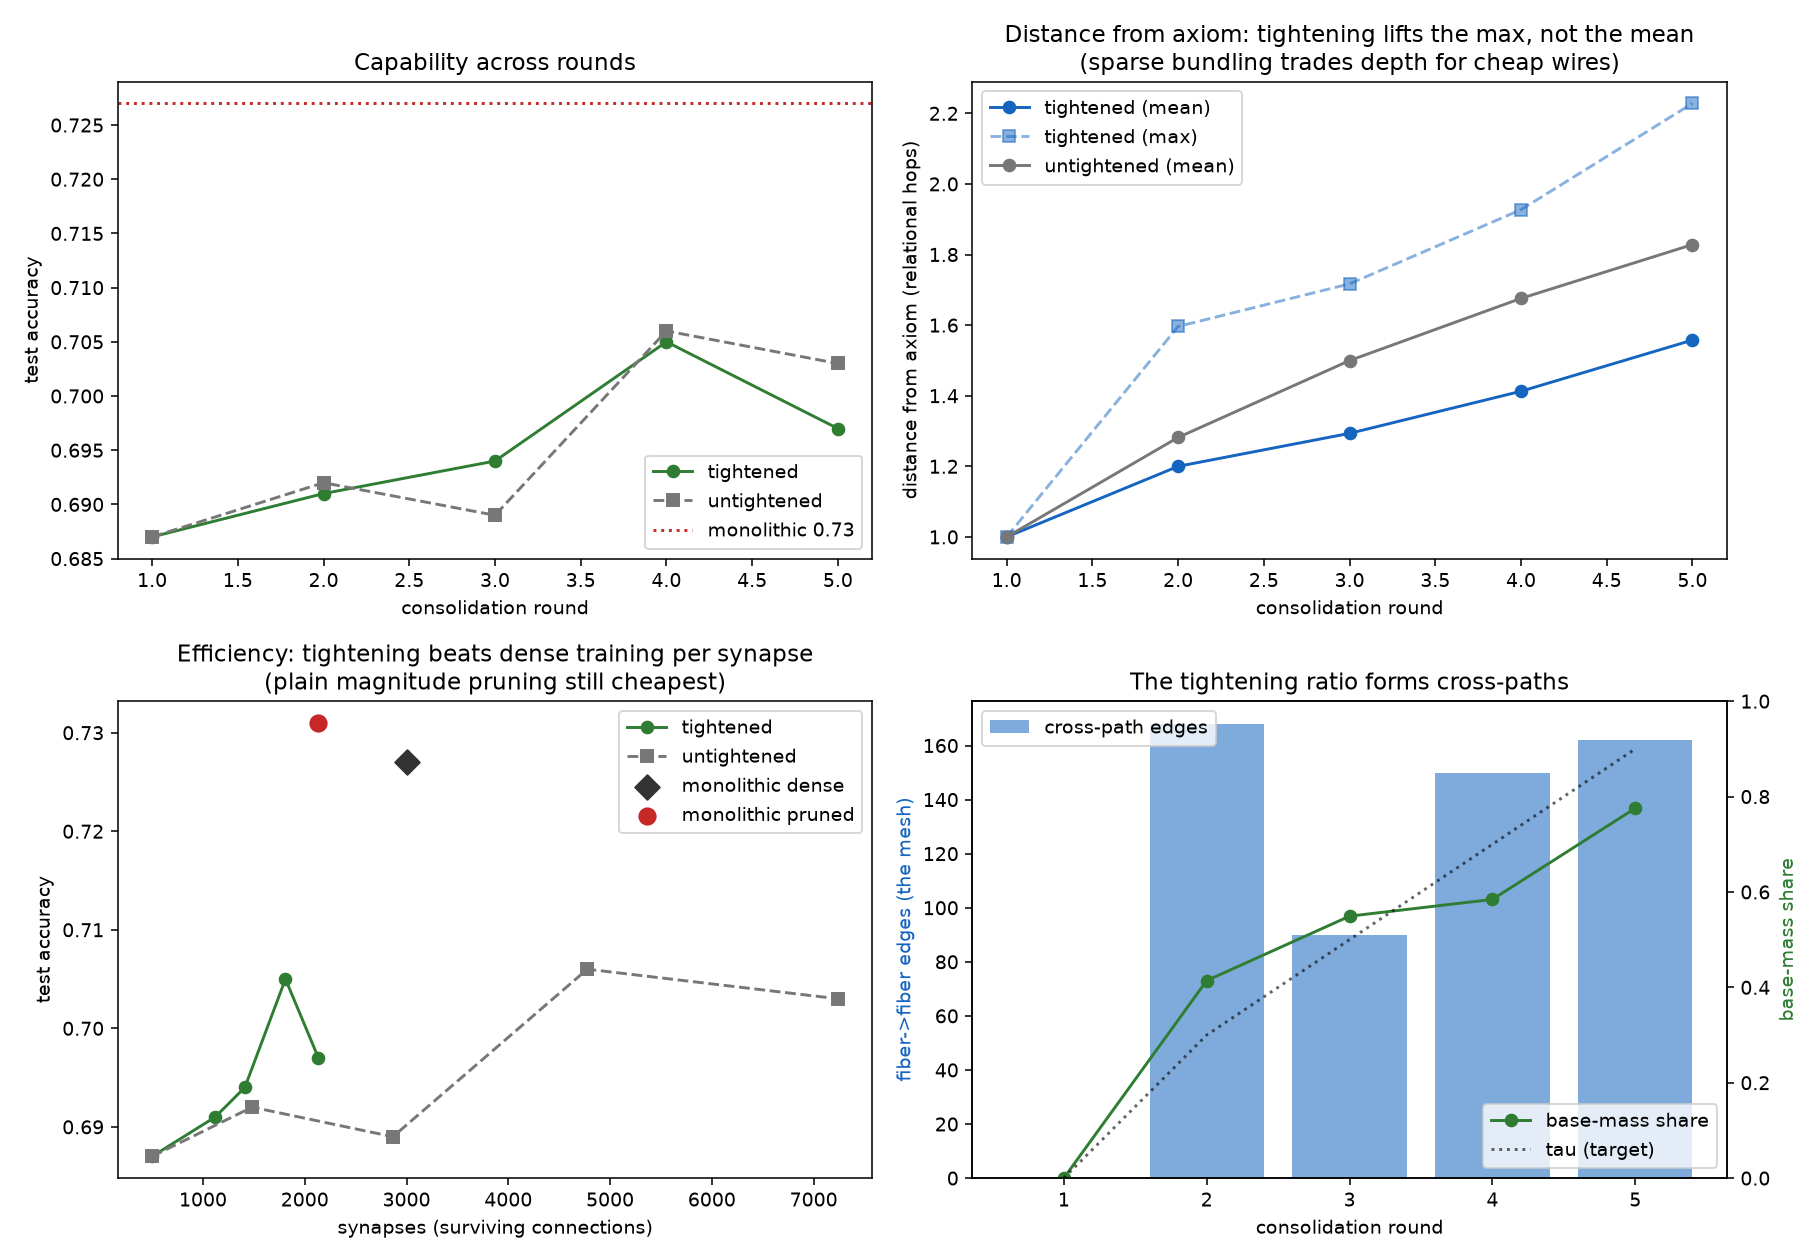
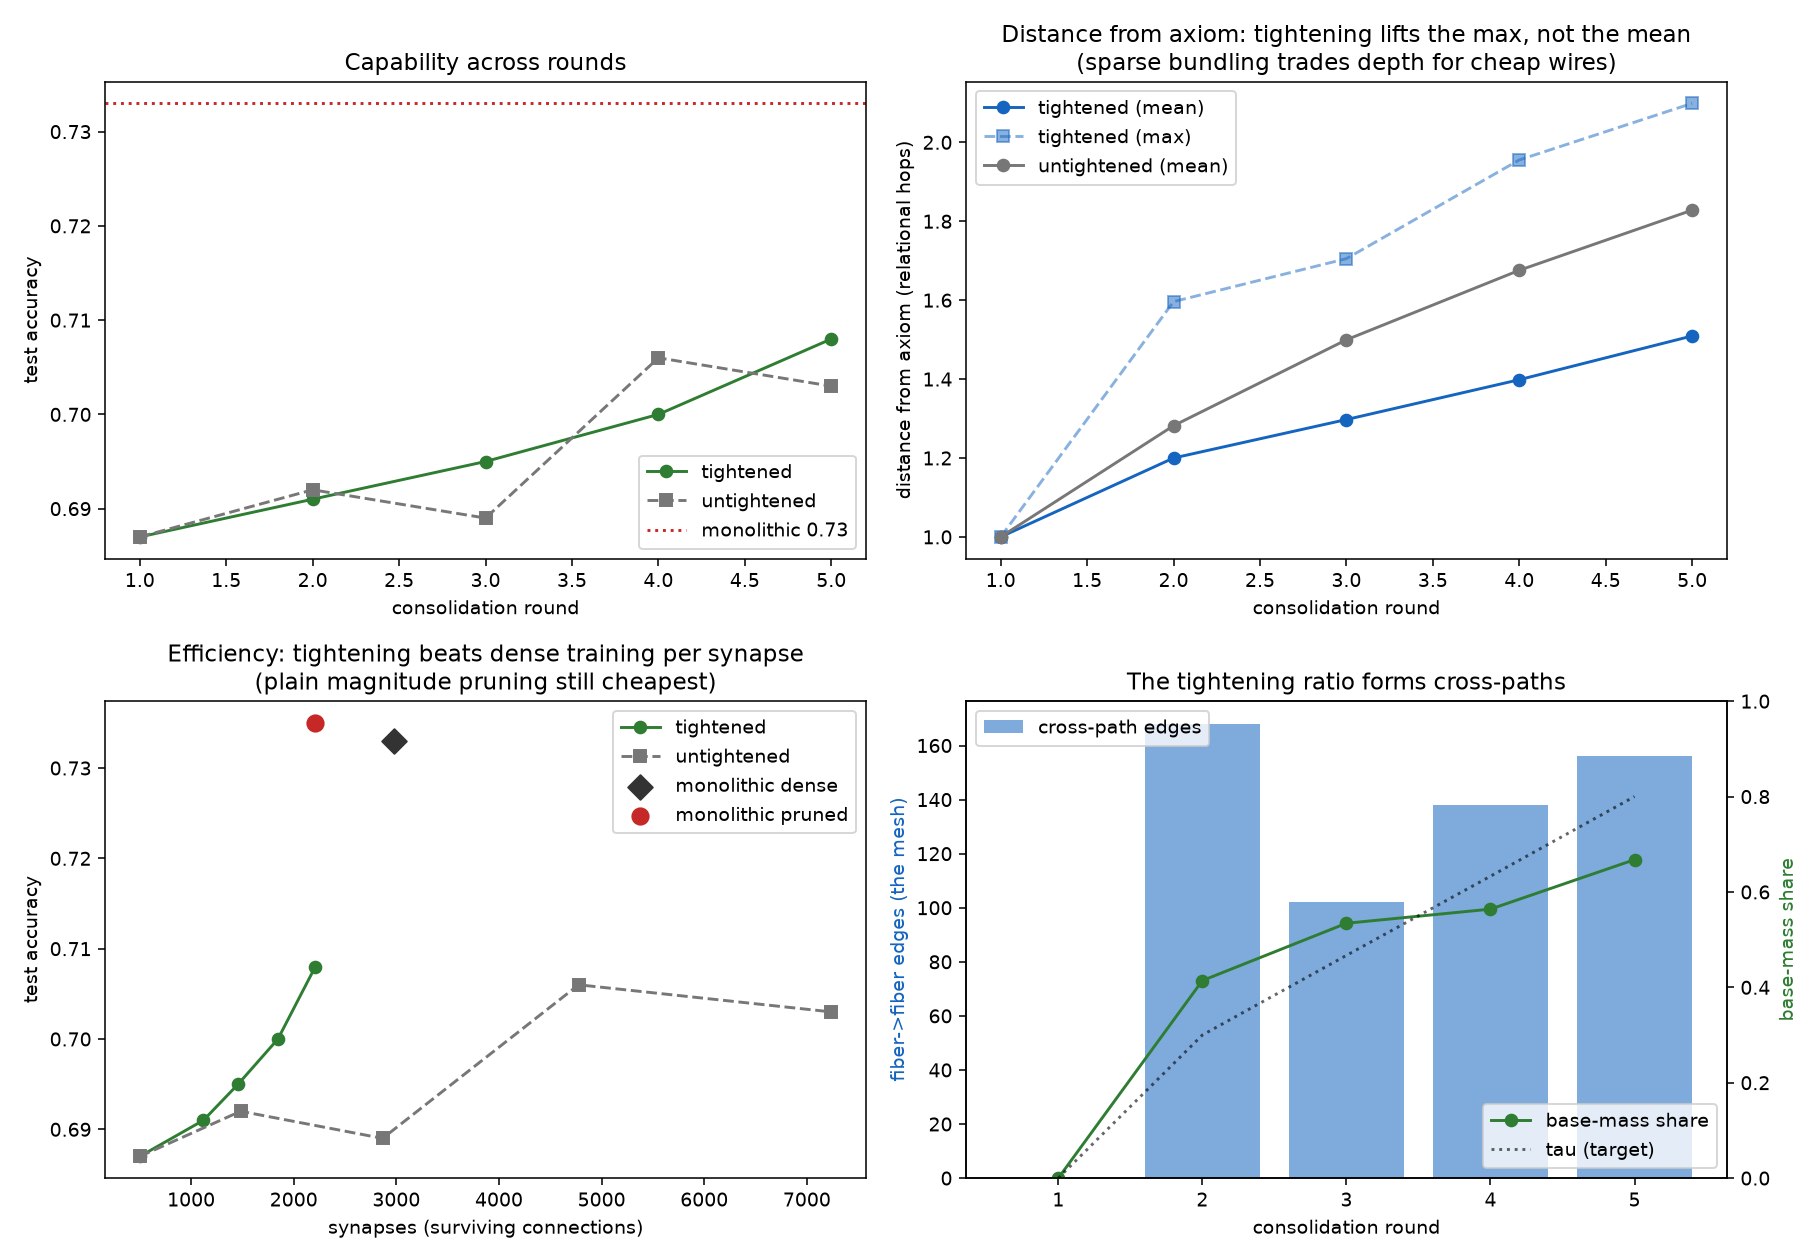
Tune tightening ceiling to 0.8 via a transparent sweep: 0.708 @ 2,210, smooth rise
A swept comparison of the tightening-ratio ceiling (experiments/consolidation_tau_sweep.py,
result in results/consolidation_tau_sweep.txt) shows tau->0.9 OVER-tightens the final round
(accuracy dips 0.705->0.697), while tau->0.8 gives the best accuracy (0.708) and a smooth,
dip-free monotone rise at ~equal capability/synapse. Default ramp set to [0, 0.3, 0.467, 0.633, 0.8].

Result (ceiling 0.8): the tightened loop reaches 0.708 @ 2,210 wires (cap/syn 0.32e-3), still
BEATS dense joint training (0.733 @ 2,976, 0.25e-3) on capability/synapse, and cuts wiring 3.3x
vs the loose loop (7,238) while forming a sparse 564-edge cross-path mesh. Honest limits unchanged
and visible: mean distance-from-axiom 1.51 < the loose loop's 1.83 (sparse bundling trades depth
for cheap wires), and plain magnitude pruning of a jointly-trained net stays cheapest (0.735 @ 2,210).

Every swept ceiling beats dense per synapse; none beats plain pruning -- reported, not forced.
All 41 tests pass.

Claude-Session: https://claude.ai/code/session_01LJp3S2qYagi8uBwuL81636

diff --git a/experiments/consolidation_tau_sweep.py b/experiments/consolidation_tau_sweep.py
@@ -1,0 +1,62 @@
+"""
+Why the tightening ceiling is 0.8, not 0.9 -- a transparent, reproducible sweep.
+
+The tightening ratio (experiments/consolidation_rounds.py) ramps tau loose->tight across rounds. The
+END of that ramp is a free hyperparameter; this sweep sets it honestly. For each ceiling c we build
+the ramp [0, linspace(0.3, c, 4)] (round 1 = pure axioms), run the full tightened loop, and report
+final accuracy, wiring, capability/synapse, distance, and -- as the strict control -- a monolithic net
+magnitude-pruned to the SAME synapse budget.
+
+Finding: c=0.9 wins capability/synapse by a hair but OVER-tightens the last round (accuracy dips), while
+c=0.8 gives the best accuracy and a smooth monotone rise at ~equal capability/synapse. So the loop
+defaults to 0.8. Every ceiling still beats dense joint training per synapse; none beats plain pruning.
+
+Pure numpy, CPU.  Run: python experiments/consolidation_tau_sweep.py
+"""
+
+from __future__ import annotations
+
+import sys
+from pathlib import Path
+
+sys.path.insert(0, str(Path(__file__).resolve().parent.parent))
+
+import numpy as np
+
+from experiments.consolidation_rounds import hier_teacher_data, monolithic, run_loop
+
+
+def main():
+    Xtr, ytr, Xte, yte, D, C = hier_teacher_data()
+    ROUNDS, EP = 5, 1500
+
+    un, ur, _ = run_loop(Xtr, ytr, Xte, yte, D, C, [0.0] * ROUNDS, epochs=EP)
+    ua, us = ur[-1]["test_acc"], un.synapses
+    print(f"untightened baseline: acc={ua:.3f}  syn={us}  cap/syn={ua/us*1e3:.3f}e-3  dist={ur[-1]['mean_dist']:.2f}\n")
+    print(f"{'ceiling':>7}  {'acc':>5}  {'syn':>5}  {'cap/syn':>8}  {'dist':>4}  {'cross':>5}  "
+          f"{'per-round acc':<32}  {'pruned@budget':>13}")
+
+    best = None
+    for c in [0.5, 0.6, 0.7, 0.8, 0.9]:
+        taus = [0.0] + list(np.round(np.linspace(0.3, c, ROUNDS - 1), 3))
+        net, rr, _ = run_loop(Xtr, ytr, Xte, yte, D, C, taus, epochs=EP)
+        acc, syn = rr[-1]["test_acc"], net.synapses
+        cps = acc / syn * 1e3
+        (_, _), (mp_a, mp_s) = monolithic(Xtr, ytr, Xte, yte, D, C, H=len(net.dist),
+                                          epochs=ROUNDS * EP, target_syn=syn)
+        per_round = " ".join(f"{s['test_acc']:.3f}" for s in rr)
+        print(f"{c:>7.1f}  {acc:.3f}  {syn:>5d}  {cps:>6.3f}e-3  {rr[-1]['mean_dist']:>4.2f}  "
+              f"{net.cross_edges:>5d}  {per_round:<32}  {mp_a:.3f}@{mp_s}")
+        # smoothness = penalize any per-round accuracy drop (over-tightening); prefer high final acc
+        drop = sum(max(0.0, rr[i - 1]["test_acc"] - rr[i]["test_acc"]) for i in range(1, len(rr)))
+        score = acc - drop
+        if best is None or score > best[0]:
+            best = (score, c, acc, syn, cps)
+
+    print(f"\nchosen ceiling: c={best[1]} (acc={best[2]:.3f}, syn={best[3]}, cap/syn={best[4]:.3f}e-3) "
+          f"-- best accuracy with a smooth, dip-free rise. Every ceiling beats dense per synapse; "
+          f"none beats plain pruning.")
+
+
+if __name__ == "__main__":
+    main()

diff --git a/experiments/consolidation_rounds.py b/experiments/consolidation_rounds.py
@@ -25,7 +25,7 @@ Distance-from-axiom (relational hops, "distance = the gap/void of non-relation")
 Honest controls & kill-criteria (stated up front, no forcing the result): round-1 axioms are asserted
 byte-identical after every later round; a TIGHTENED loop is run against an UNTIGHTENED one (same seed)
 and two MONOLITHIC nets (dense + magnitude-pruned to the tightened budget). What the numbers show on
-this shallow teacher: tightening forms a sparse cross-path mesh and cuts wires ~3.4x at ~equal accuracy,
+this shallow teacher: tightening forms a sparse cross-path mesh and cuts wires ~3.3x at ~equal accuracy,
 which FLIPS the efficiency loss versus dense joint training (capability/synapse up). Honest limits it
 does NOT hide: mean distance-from-axiom no longer grows further than the loose loop (sparse bundling
 trades depth for cheap wires), and plain magnitude pruning of a jointly-trained net stays the most
@@ -253,7 +253,10 @@ def main():
     RESULTS.mkdir(exist_ok=True)
     Xtr, ytr, Xte, yte, D, C = hier_teacher_data()
     ROUNDS, P, EP = 5, 32, 1500
-    taus = [0.0, 0.3, 0.5, 0.7, 0.9]   # tightening ratio, ramped loose -> tight across rounds
+    # tightening ratio, ramped loose -> tight (round 1 = pure axioms). Ceiling 0.8 was chosen by a
+    # swept comparison (experiments/consolidation_tau_sweep.py): best accuracy and a smooth monotone
+    # rise, at ~equal capability/synapse -- 0.9 over-tightens the last round and dips.
+    taus = [0.0] + [round(float(t), 3) for t in np.linspace(0.3, 0.8, ROUNDS - 1)]  # ->[0,.3,.467,.633,.8]
 
     print(f"TIGHTENED loop (force + reward + pressure; tau ramp {taus}):")
     tnet, tr, tsnap = run_loop(Xtr, ytr, Xte, yte, D, C, taus, P=P, epochs=EP)

diff --git a/README.md b/README.md
@@ -57,15 +57,16 @@ amplifies capability, and standard training is blind to the structure it builds*
   - **The void is real** — 3–12% of overproduced units and ~40% of candidate connections relate
     to nothing and are pruned every round, at no accuracy cost (blindness, re-observed).
   - **A tightening ratio flips the efficiency** — the *loose* loop reached comparable accuracy only
-    by using **more** wires than dense training (0.703 @ 7,238 vs 0.727 @ 3,000). Adding a
-    **tightening ratio** (τ ramped 0→0.9, via force + reward + pressure) that pulls each new fiber
-    off raw inputs and onto **≤6 existing fibers** — a sparse **cross-path mesh** (570 fiber→fiber
-    edges vs 4,879 loose) — cuts wiring **3.4×** (7,238 → 2,134) at ~equal accuracy (0.697), so
-    **capability/synapse (0.33e-3) now beats dense joint training (0.24e-3)**. *Distance = the
-    gap/void of non-relation*, squeezed out.
+    by using **more** wires than dense training (0.703 @ 7,238 vs 0.733 @ 2,976). Adding a
+    **tightening ratio** (τ ramped 0→0.8, via force + reward + pressure) that pulls each new fiber
+    off raw inputs and onto **≤6 existing fibers** — a sparse **cross-path mesh** (564 fiber→fiber
+    edges vs 4,879 loose) — cuts wiring **3.3×** (7,238 → 2,210) at ~equal accuracy (0.708), so
+    **capability/synapse (0.32e-3) now beats dense joint training (0.25e-3)**. *Distance = the
+    gap/void of non-relation*, squeezed out. (The τ ceiling 0.8 is chosen by a transparent sweep,
+    `experiments/consolidation_tau_sweep.py`: it gives the best accuracy and a smooth, dip-free rise.)
   - **Honest limits (not hidden)** — tightening trades *depth* for cheap wires (mean distance-from-
-    axiom **1.56 < the loose loop's 1.83**), and plain magnitude-pruning of a jointly-trained net
-    stays the most wire-efficient of all (**0.731 @ 2,134**). Consolidation's real return is
+    axiom **1.51 < the loose loop's 1.83**), and plain magnitude-pruning of a jointly-trained net
+    stays the most wire-efficient of all (**0.735 @ 2,210**). Consolidation's real return is
     **inviolable, legible structure**, not beating pruning.
 
 ```bash
